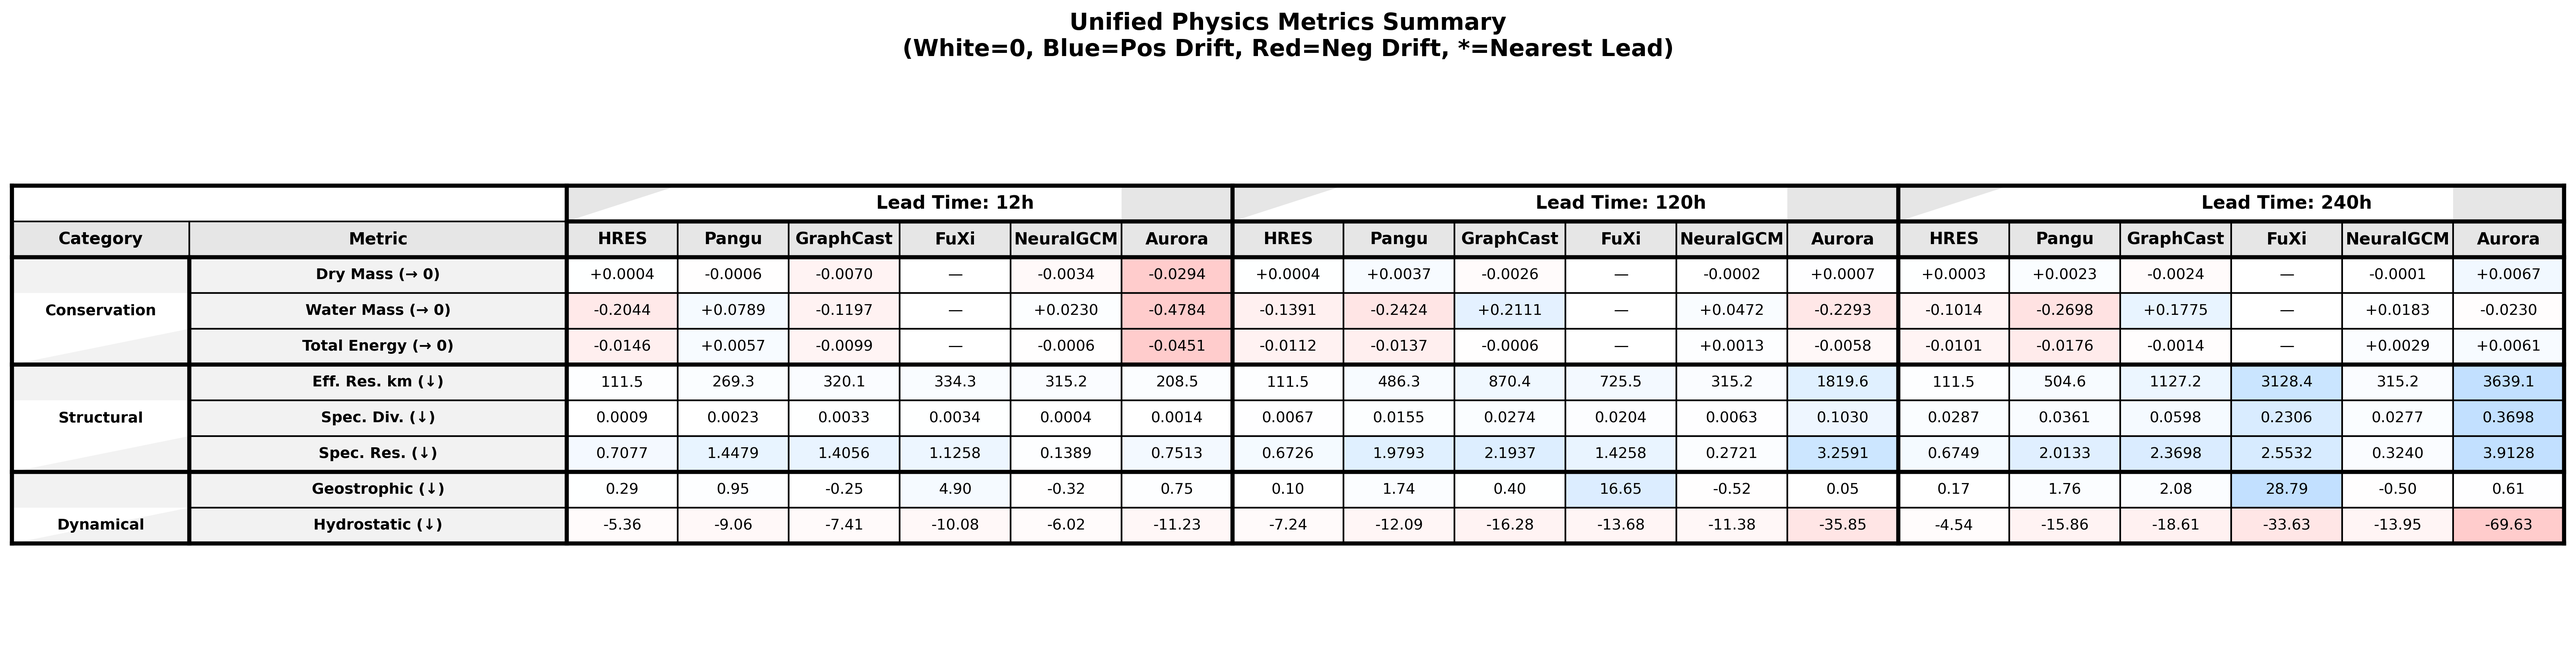
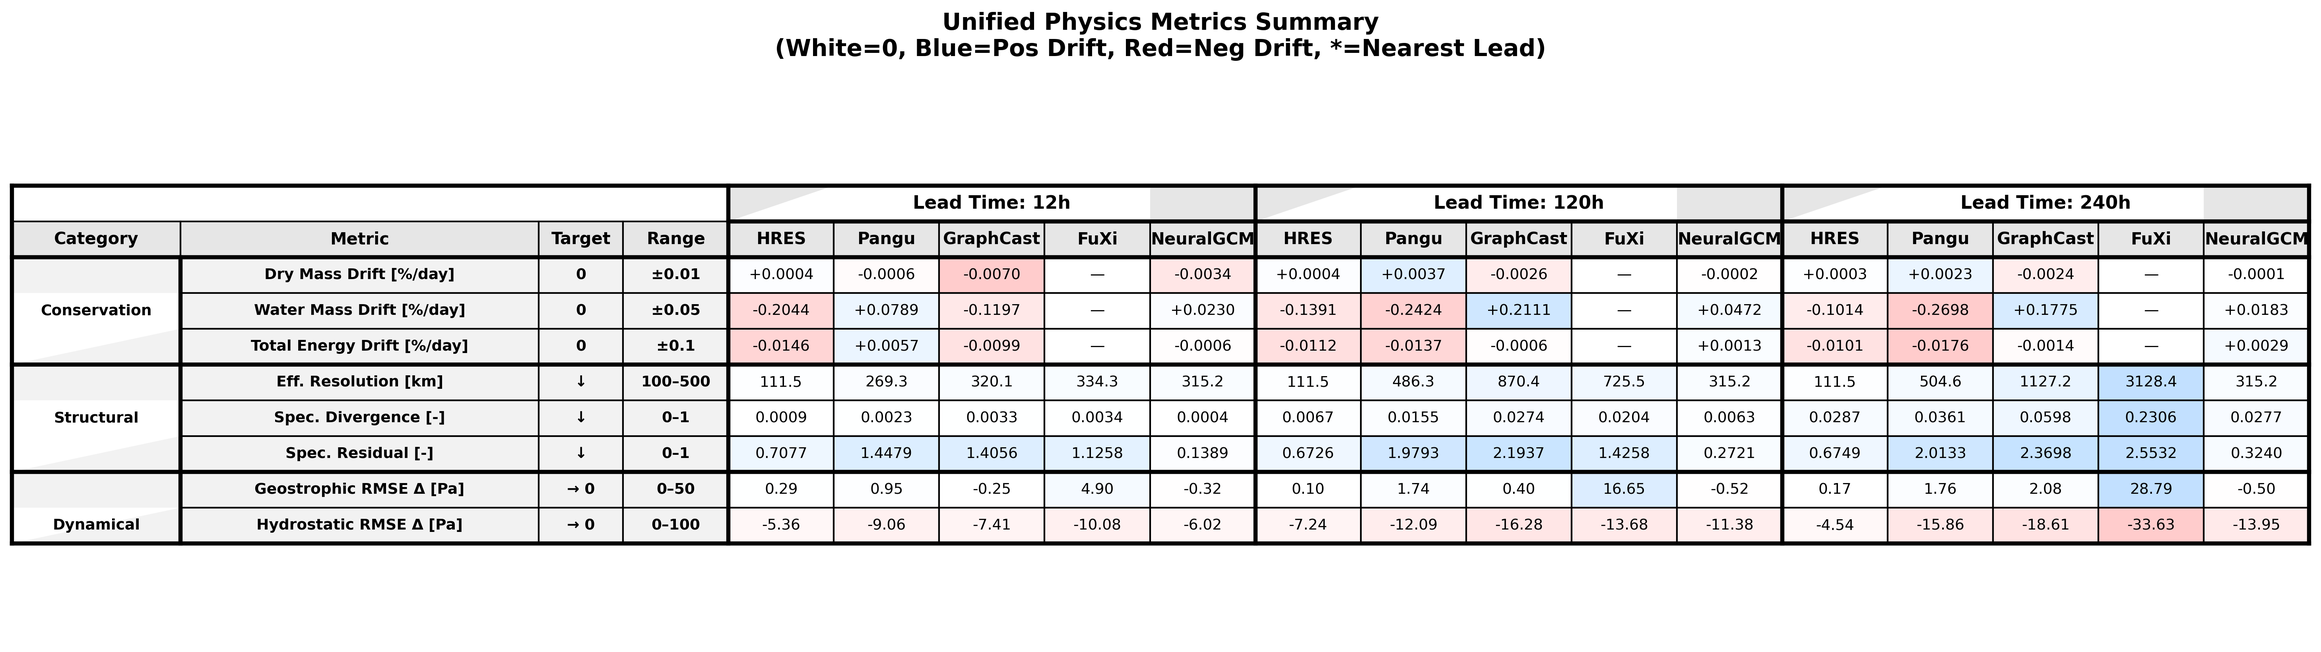
Add Target and Range columns to summary table, include units
- Added Target column showing ideal values for each metric
- Added Range column showing typical observed ranges
- Included units in metric names (e.g., [%/day], [km], [Pa])
- Changed RMSE difference metrics to show '→ 0' instead of '↓'
- Removed Aurora from models_to_plot

diff --git a/thesis/scripts/plot_summary_table.py b/thesis/scripts/plot_summary_table.py
@@ -476,30 +476,30 @@ def render_split_tables(leads: list[int], summaries: dict[str, pd.DataFrame],
 def render_unified_png_table(leads: list[int], summaries: dict[str, pd.DataFrame], outdir: Path):
     """Renders a single unified PNG table with metrics on rows and models on columns."""
     
-    models_to_plot = ["hres", "pangu", "graphcast", "fuxi", "neuralgcm", "aurora"]
+    models_to_plot = ["hres", "pangu", "graphcast", "fuxi", "neuralgcm"]
     model_labels = [NICE.get(m, m) for m in models_to_plot]
 
     categories = {
         "Conservation": [
-            ("dry_mass_drift_pct_per_day", "Dry Mass (→ 0)"),
-            ("water_mass_drift_pct_per_day", "Water Mass (→ 0)"),
-            ("total_energy_drift_pct_per_day", "Total Energy (→ 0)")
+            ("dry_mass_drift_pct_per_day", "Dry Mass Drift [%/day]", "0", "±0.01"),
+            ("water_mass_drift_pct_per_day", "Water Mass Drift [%/day]", "0", "±0.05"),
+            ("total_energy_drift_pct_per_day", "Total Energy Drift [%/day]", "0", "±0.1")
         ],
         "Structural": [
-            ("effective_resolution_km", "Eff. Res. km (↓)"),
-            ("spectral_divergence", "Spec. Div. (↓)"),
-            ("spectral_residual", "Spec. Res. (↓)")
+            ("effective_resolution_km", "Eff. Resolution [km]", "↓", "100–500"),
+            ("spectral_divergence", "Spec. Divergence [-]", "↓", "0–1"),
+            ("spectral_residual", "Spec. Residual [-]", "↓", "0–1")
         ],
         "Dynamical": [
-            ("geostrophic_rmse", "Geostrophic (↓)"),
-            ("hydrostatic_rmse", "Hydrostatic (↓)")
+            ("geostrophic_rmse", "Geostrophic RMSE Δ [Pa]", "→ 0", "0–50"),
+            ("hydrostatic_rmse", "Hydrostatic RMSE Δ [Pa]", "→ 0", "0–100")
         ]
     }
 
     # 1. Calculate max abs per metric for color scaling
     max_abs = {}
     for cat, metrics in categories.items():
-        for m_key, _ in metrics:
+        for m_key, _, _, _ in metrics:
             vals = []
             for m in models_to_plot:
                 if m in summaries:
@@ -526,9 +526,9 @@ def render_unified_png_table(leads: list[int], summaries: dict[str, pd.DataFrame
     header_color = np.array([0.9, 0.9, 0.9])
     cat_color = np.array([0.95, 0.95, 0.95])
 
-    # Header Row 1: Lead times
-    row0_text = ["", ""]
-    row0_color = [header_color, header_color]
+    # Header Row 1: Lead times (with empty cells for Target and Range)
+    row0_text = ["", "", "", ""]
+    row0_color = [header_color, header_color, header_color, header_color]
     for lead in leads:
         block = [""] * len(models_to_plot)
         block[len(models_to_plot)//2] = f"Lead Time: {lead}h"
@@ -537,17 +537,17 @@ def render_unified_png_table(leads: list[int], summaries: dict[str, pd.DataFrame
     cell_texts.append(row0_text)
     cell_colors.append(row0_color)
 
-    # Header Row 2: Models
-    row1_text = ["Category", "Metric"] + model_labels * len(leads)
-    row1_color = [header_color, header_color] + [header_color] * (len(models_to_plot) * len(leads))
+    # Header Row 2: Models (with Target and Range columns)
+    row1_text = ["Category", "Metric", "Target", "Range"] + model_labels * len(leads)
+    row1_color = [header_color, header_color, header_color, header_color] + [header_color] * (len(models_to_plot) * len(leads))
     cell_texts.append(row1_text)
     cell_colors.append(row1_color)
 
     # Data Rows
     for cat_name, metrics in categories.items():
-        for i, (m_key, m_label) in enumerate(metrics):
-            row_t = [cat_name if i == len(metrics)//2 else "", m_label]
-            row_c = [cat_color, cat_color]
+        for i, (m_key, m_label, m_target, m_range) in enumerate(metrics):
+            row_t = [cat_name if i == len(metrics)//2 else "", m_label, m_target, m_range]
+            row_c = [cat_color, cat_color, cat_color, cat_color]
 
             for lead in leads:
                 for m in models_to_plot:
@@ -593,7 +593,7 @@ def render_unified_png_table(leads: list[int], summaries: dict[str, pd.DataFrame
     fig, ax = plt.subplots(figsize=(fig_w, fig_h))
     ax.axis("off")
 
-    colWidths = [0.08, 0.17] + [0.05] * (len(leads) * len(models_to_plot))
+    colWidths = [0.08, 0.17, 0.04, 0.05] + [0.05] * (len(leads) * len(models_to_plot))
     table = ax.table(
         cellText=cell_texts,
         cellColours=[[tuple(c) for c in row] for row in cell_colors],
@@ -610,19 +610,23 @@ def render_unified_png_table(leads: list[int], summaries: dict[str, pd.DataFrame
         table[0, j].set_text_props(fontweight="bold", fontsize=11)
         table[1, j].set_text_props(fontweight="bold", fontsize=10)
 
-    # Styling category and metric names
+    # Styling category, metric, target, and range names
     for i in range(2, n_rows):
         table[i, 0].set_text_props(fontweight="bold")
         table[i, 1].set_text_props(fontweight="bold")
+        table[i, 2].set_text_props(fontweight="bold")
+        table[i, 3].set_text_props(fontweight="bold")
 
     # --- Cell Merging ---
-    # Top-left empty 2x2 area
+    # Top-left empty 4-column area (Category, Metric, Target, Range)
     table[0, 0].visible_edges = ''
     table[0, 1].visible_edges = ''
+    table[0, 2].visible_edges = ''
+    table[0, 3].visible_edges = ''
 
     # Top row Lead times merging
     for l_idx in range(len(leads)):
-        start_col = 2 + l_idx * len(models_to_plot)
+        start_col = 4 + l_idx * len(models_to_plot)
         end_col = start_col + len(models_to_plot) - 1
         for c in range(start_col, end_col + 1):
             if c == start_col:
@@ -654,7 +658,7 @@ def render_unified_png_table(leads: list[int], summaries: dict[str, pd.DataFrame
     fig.canvas.draw()
 
     x_left = table[0, 0].get_x()
-    x_metric = table[0, 1].get_x() + table[0, 1].get_width()
+    x_range_end = table[0, 3].get_x() + table[0, 3].get_width()
     x_right = table[0, n_cols - 1].get_x() + table[0, n_cols - 1].get_width()
 
     y_top = table[0, 0].get_y() + table[0, 0].get_height()
@@ -670,16 +674,17 @@ def render_unified_png_table(leads: list[int], summaries: dict[str, pd.DataFrame
 
     # Header borders
     ax.plot([x_left, x_right], [y_head_row1, y_head_row1], color='black', linewidth=2.5, clip_on=False)
-    ax.plot([x_metric, x_right], [y_head_row0, y_head_row0], color='black', linewidth=2.5, clip_on=False)
+    ax.plot([x_range_end, x_right], [y_head_row0, y_head_row0], color='black', linewidth=2.5, clip_on=False)
 
-    # Vertical Categories separator
-    ax.plot([x_metric, x_metric], [y_bot, y_top], color='black', linewidth=2.5, clip_on=False)
+    # Vertical Categories separator (after Range column)
+    x_range_edge = table[0, 3].get_x() + table[0, 3].get_width()
+    ax.plot([x_range_edge, x_range_edge], [y_bot, y_top], color='black', linewidth=2.5, clip_on=False)
     x_cat_edge = table[0, 0].get_x() + table[0, 0].get_width()
     ax.plot([x_cat_edge, x_cat_edge], [y_bot, y_head_row1], color='black', linewidth=2.5, clip_on=False)
 
     # Lead time separators
     for l_idx in range(1, len(leads)):
-        c = 2 + l_idx * len(models_to_plot)
+        c = 4 + l_idx * len(models_to_plot)
         x = table[0, c].get_x()
         ax.plot([x, x], [y_bot, y_top], color='black', linewidth=2.5, clip_on=False)
 
